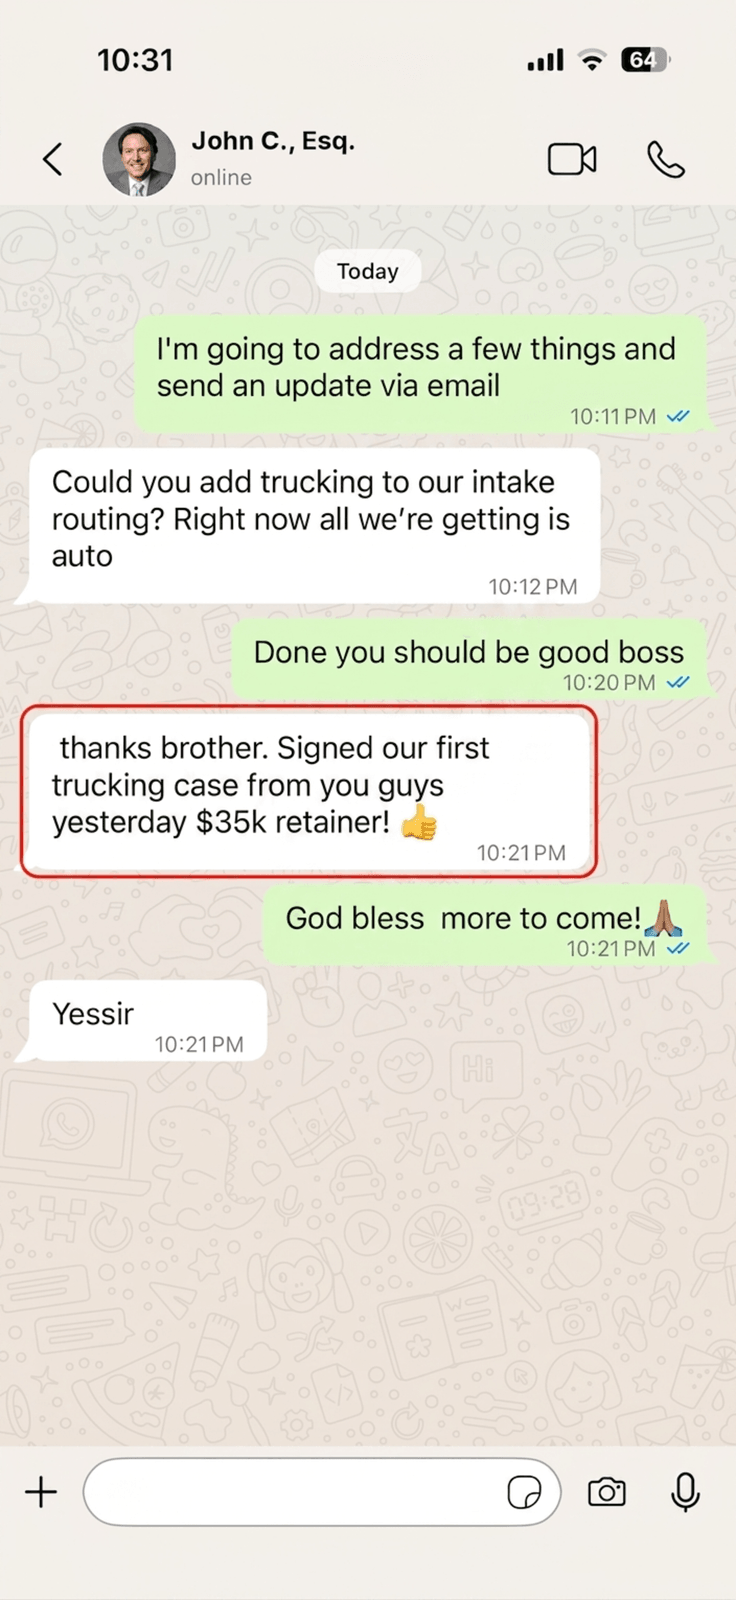
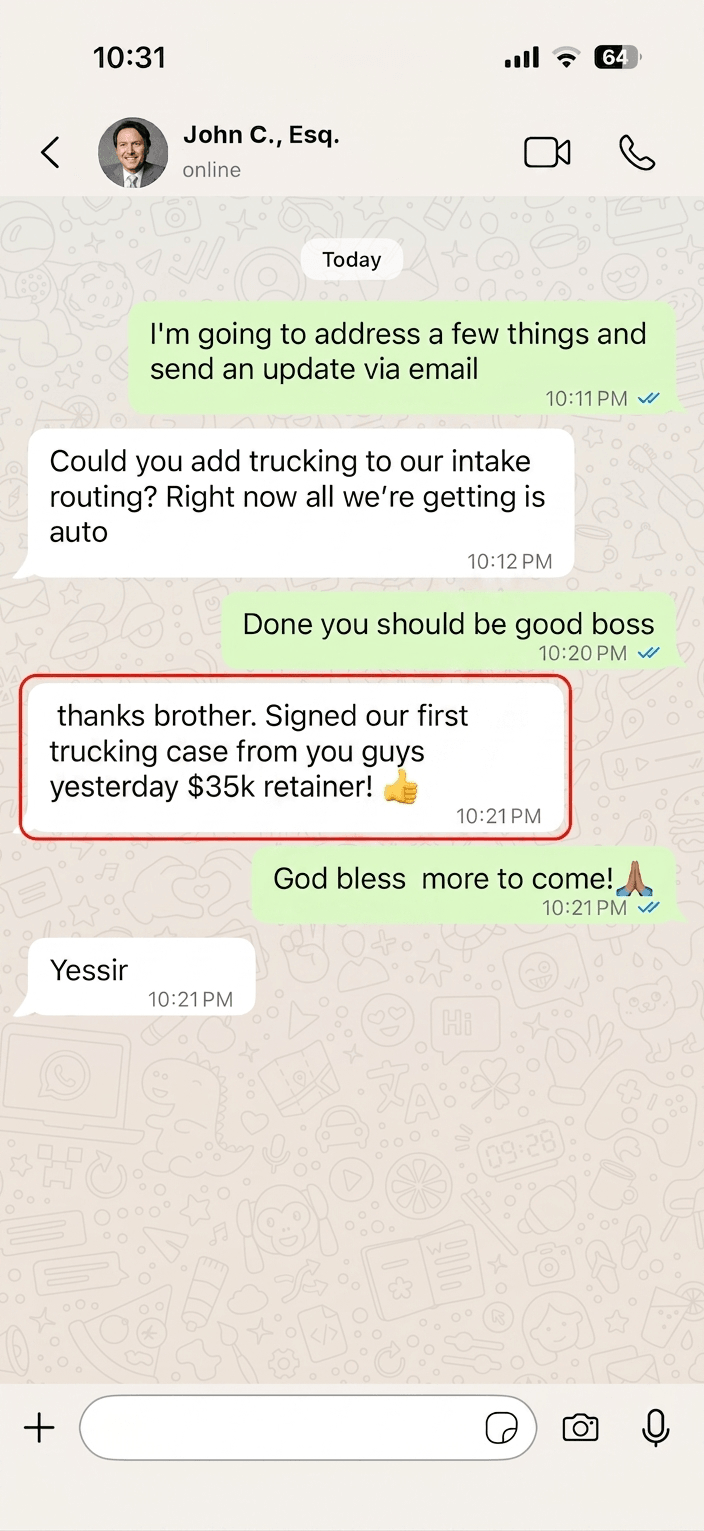
Reflect new trucking testimonial (tighter re-crop) + pin ?v=42
The export dropped an updated #4 trucking screenshot (John C.) with the
dead whitespace cropped out (704x1531 vs the old 1206x2622). Rebuilt the
asset from it (358KB png / 69KB webp), bumped to ?v=42 on index and
case-studies (content changed at same URL, /assets is immutably cached),
and taught optimize.mjs to pin the trucking version so future exports
keep it.

diff --git a/case-studies/index.html b/case-studies/index.html
@@ -308,7 +308,7 @@ p{text-wrap:pretty}
           </figcaption>
         </figure>
         <figure class="success-card">
-          <img src="../assets/re-testimonial-4-imsg-35k-trucking.png" alt="WhatsApp screenshot from John C., Esq.: asks to add trucking to intake routing, then reports signing their first trucking case the next day on a $35K retainer">
+          <img src="../assets/re-testimonial-4-imsg-35k-trucking.png?v=42" alt="WhatsApp screenshot from John C., Esq.: asks to add trucking to intake routing, then reports signing their first trucking case the next day on a $35K retainer">
           <figcaption>
             <span class="success-tag">$35K first trucking case</span>
             <span class="success-cap">First trucking retainer signed the day after we added it to intake routing</span>

diff --git a/index.html b/index.html
@@ -1820,7 +1820,7 @@
         </figure>
 
         <figure class="success-card portrait">
-          <img src="assets/re-testimonial-4-imsg-35k-trucking.png" alt="WhatsApp screenshot from John C., Esq.: asks to add trucking to intake routing, then reports signing their first trucking case the next day on a $35K retainer" loading="lazy">
+          <img src="assets/re-testimonial-4-imsg-35k-trucking.png?v=42" alt="WhatsApp screenshot from John C., Esq.: asks to add trucking to intake routing, then reports signing their first trucking case the next day on a $35K retainer" loading="lazy">
           <figcaption>
             <span class="success-tag">$35K first trucking case</span>
             <span class="success-cap">First trucking retainer signed the day after we added it to intake routing</span>
